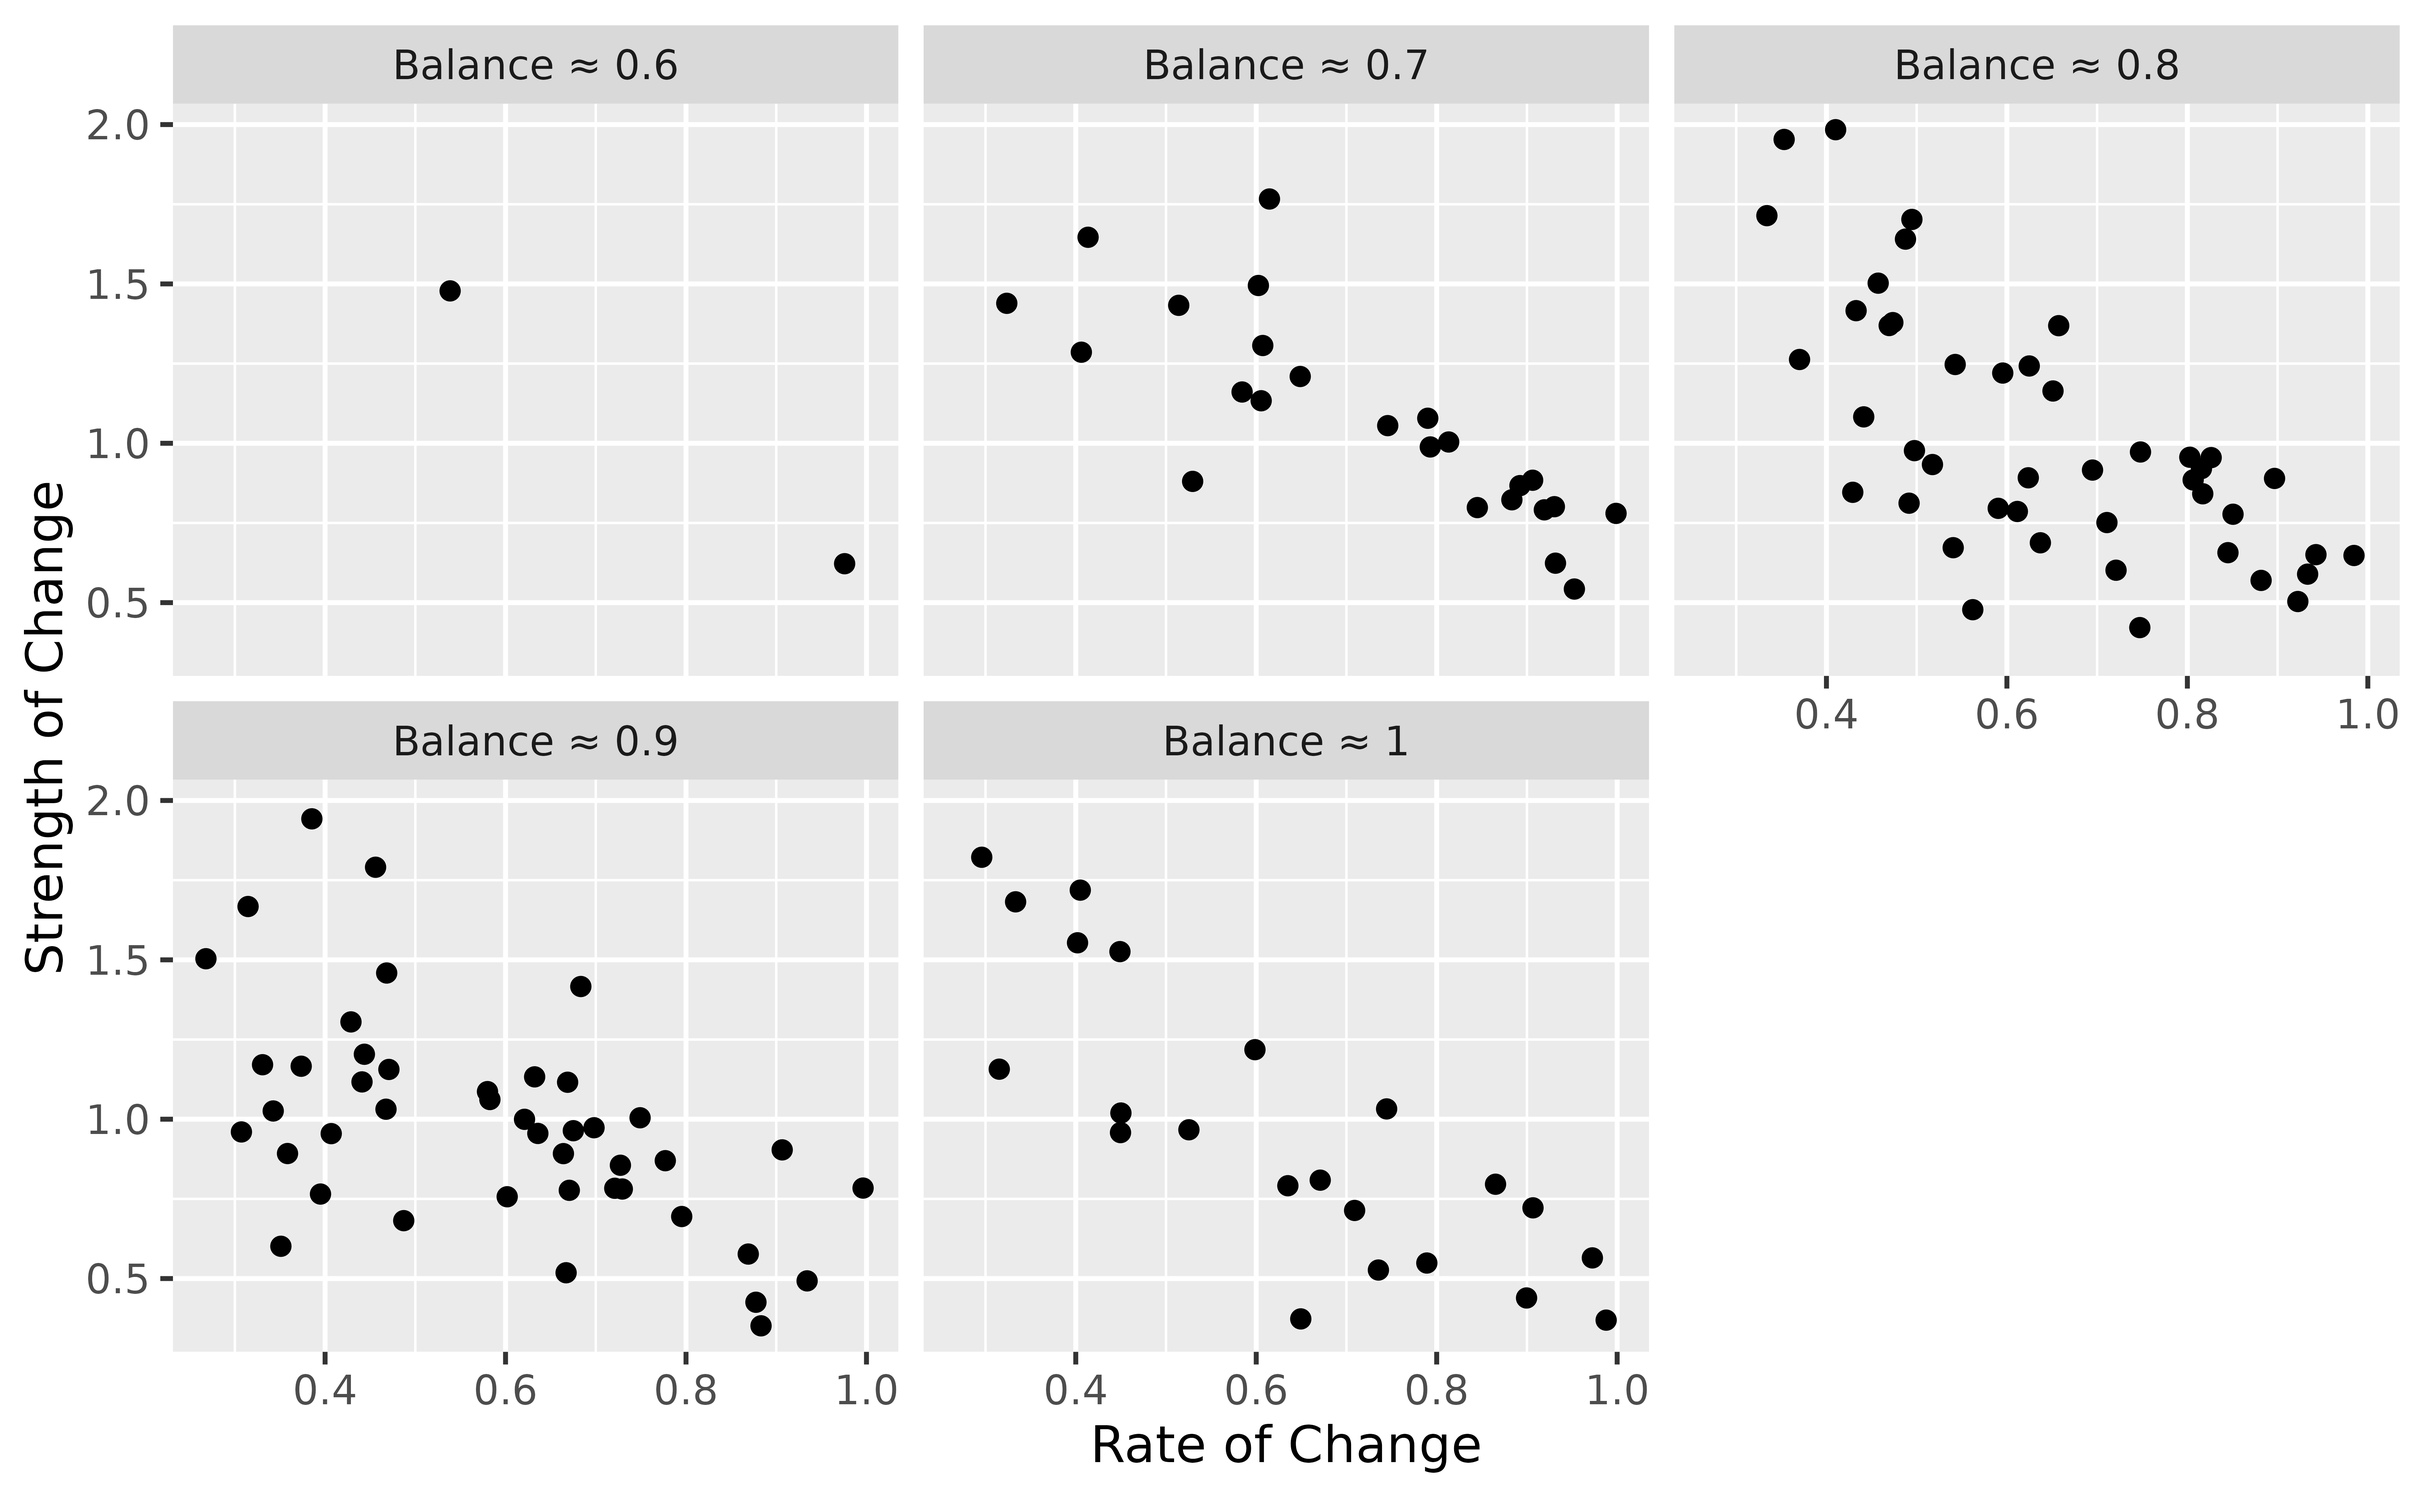
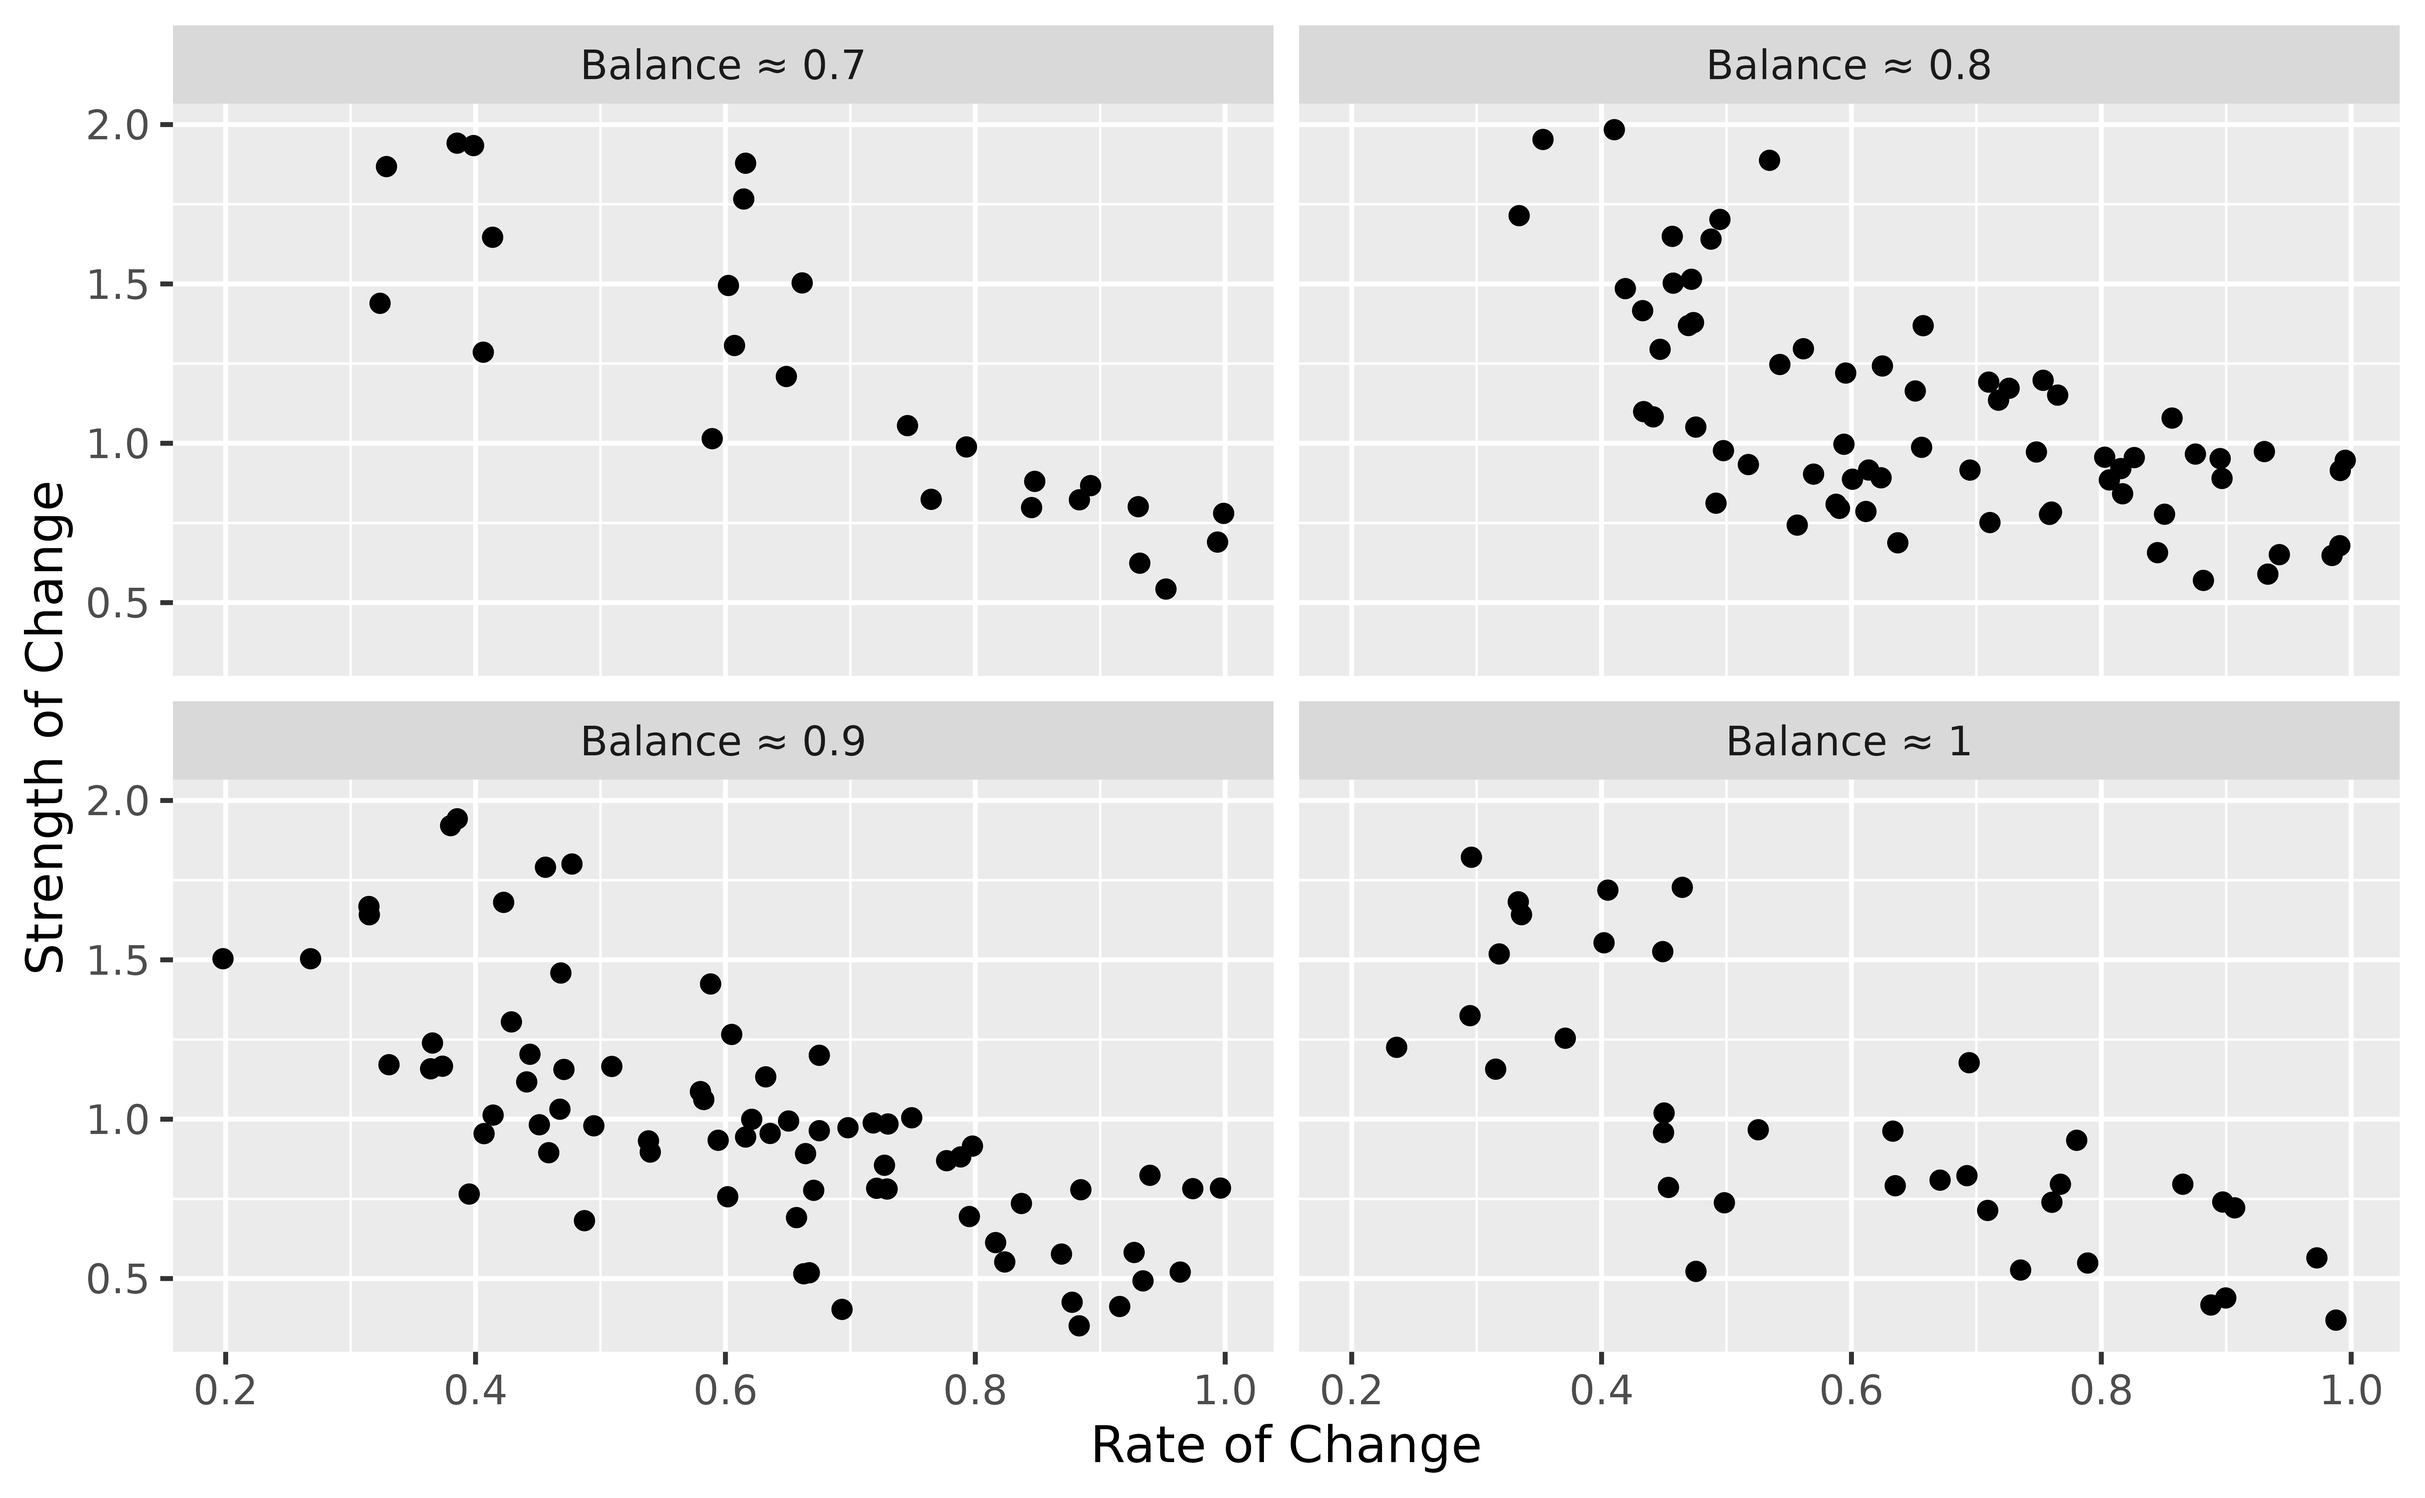
Deploying to gh-pages from @ tkeskinturk/gridsearch@3f447c8db7d7f3242bb4186ae36a1113af1a1292 🚀

diff --git a/articles/usage.html b/articles/usage.html
@@ -140,7 +140,7 @@ posed?</p>
 <h3 id="grid-search-algorithm">Grid Search Algorithm<a class="anchor" aria-label="anchor" href="#grid-search-algorithm"></a>
 </h3>
 <p>The grid-search algorithm tries to answer this question. It performs
-six main steps:</p>
+five main steps:</p>
 <ol style="list-style-type: decimal">
 <li>
 <p>Simulates data with several parameters of interest for our
@@ -151,14 +151,12 @@ y_{it} = Y_i + \delta \tau_i D_{it} + \epsilon_{it} \ \text{ with } \epsilon_{it
 </annotation></semantics></math></p>
 </li>
 <li><p>Calculates the distribution of response trajectories in both the
-observed and simulated data, by either tabulating response patterns
-across time or estimating slope coefficients;</p></li>
-<li><p>Compares the simulated trajectories to the observed trajectories.
-It does so by calculating a “distance” score to quantify the extent to
-which specific simulated values reproduce the observed values;</p></li>
-<li><p>Rejects the simulated data if the distance measure is above a
-certain pre-specified “caliper” value, and accepts it
-otherwise;</p></li>
+observed and simulated data by estimating slope coefficients at the
+individual level;</p></li>
+<li><p>Compares the simulated trajectories to the observed trajectories
+by calculating a Kolmogorov-Smirnov distance between the distribution of
+simulated slope coefficients and the distribution of observed slope
+coefficients;</p></li>
 <li><p>Replicates this analysis
 <math display="inline" xmlns="http://www.w3.org/1998/Math/MathML"><semantics><mi>N</mi><annotation encoding="application/x-tex">N</annotation></semantics></math>
 times by drawing samples from the specified priors;</p></li>
@@ -172,40 +170,29 @@ to the observed values.</p></li>
 <span>  yname <span class="op">=</span> <span class="st">'y'</span>, <span class="co">## observed binary outcome</span></span>
 <span>  tname <span class="op">=</span> <span class="st">'time'</span>, <span class="co">## time variable</span></span>
 <span>  pname <span class="op">=</span> <span class="st">'pid'</span>, <span class="co">## panel identifier</span></span>
-<span>  n_samples <span class="op">=</span> <span class="fl">1e4</span>, <span class="co">## the number of draws from the priors</span></span>
-<span>  caliper <span class="op">=</span> <span class="fl">.15</span> <span class="co">## the distance to accept or reject specific samples</span></span>
+<span>  n_samples <span class="op">=</span> <span class="fl">1e4</span> <span class="co">## the number of draws from the priors</span></span>
 <span><span class="op">)</span></span>
 <span><span class="co">#&gt; [1] "10%"</span></span>
-<span><span class="co">#&gt; [1] "AR: 1.1%"</span></span>
 <span><span class="co">#&gt; [1] "20%"</span></span>
-<span><span class="co">#&gt; [1] "AR: 1.4%"</span></span>
 <span><span class="co">#&gt; [1] "30%"</span></span>
-<span><span class="co">#&gt; [1] "AR: 1.5%"</span></span>
 <span><span class="co">#&gt; [1] "40%"</span></span>
-<span><span class="co">#&gt; [1] "AR: 1.5%"</span></span>
 <span><span class="co">#&gt; [1] "50%"</span></span>
-<span><span class="co">#&gt; [1] "AR: 1.4%"</span></span>
 <span><span class="co">#&gt; [1] "60%"</span></span>
-<span><span class="co">#&gt; [1] "AR: 1.5%"</span></span>
 <span><span class="co">#&gt; [1] "70%"</span></span>
-<span><span class="co">#&gt; [1] "AR: 1.4%"</span></span>
 <span><span class="co">#&gt; [1] "80%"</span></span>
-<span><span class="co">#&gt; [1] "AR: 1.4%"</span></span>
 <span><span class="co">#&gt; [1] "90%"</span></span>
-<span><span class="co">#&gt; [1] "AR: 1.3%"</span></span>
 <span><span class="co">#&gt; [1] "100%"</span></span>
-<span><span class="co">#&gt; [1] "AR: 1.4%"</span></span>
 <span></span>
 <span><span class="fu"><a href="https://rdrr.io/r/utils/head.html" class="external-link">head</a></span><span class="op">(</span><span class="va">grid</span><span class="op">)</span></span>
-<span><span class="co">#&gt;    ic_sample pc_sample bal_sample rel_sample</span></span>
-<span><span class="co">#&gt;        &lt;num&gt;     &lt;num&gt;      &lt;num&gt;      &lt;num&gt;</span></span>
-<span><span class="co">#&gt; 1: 1.0322507 0.7445152  0.9646666  0.8663515</span></span>
-<span><span class="co">#&gt; 2: 1.1328781 0.6322543  0.8840945  0.8712028</span></span>
-<span><span class="co">#&gt; 3: 0.9579910 0.4495958  0.9640791  0.8405229</span></span>
-<span><span class="co">#&gt; 4: 1.9532644 0.3531195  0.8201550  0.9198327</span></span>
-<span><span class="co">#&gt; 5: 0.7912792 0.6350539  0.9839783  0.9342152</span></span>
-<span><span class="co">#&gt; 6: 1.9839352 0.4101874  0.8015720  0.9760054</span></span></code></pre></div>
-<p>The <code>gridSearch</code> function gives us a data table with four
+<span><span class="co">#&gt;    ic_sample pc_sample bal_sample rel_sample     error</span></span>
+<span><span class="co">#&gt;        &lt;num&gt;     &lt;num&gt;      &lt;num&gt;      &lt;num&gt;     &lt;num&gt;</span></span>
+<span><span class="co">#&gt; 1: 0.1615003 0.8343330 0.60076089  0.1572084 0.2002322</span></span>
+<span><span class="co">#&gt; 2: 0.3604597 0.6863544 0.10009245  0.9301401 0.1770000</span></span>
+<span><span class="co">#&gt; 3: 0.2552555 0.3090493 0.03734205  0.1698264 0.1782102</span></span>
+<span><span class="co">#&gt; 4: 0.2721172 0.1380610 0.11318473  0.8798949 0.1500000</span></span>
+<span><span class="co">#&gt; 5: 0.3497646 0.7063219 0.27114909  0.6377779 0.1260000</span></span>
+<span><span class="co">#&gt; 6: 1.7581699 0.5516272 0.16823312  0.5071633 0.2640000</span></span></code></pre></div>
+<p>The <code>gridSearch</code> function gives us a data table with five
 columns:</p>
 <ul>
 <li>
@@ -221,6 +208,9 @@ of change in the sample,</li>
 <li>
 <code>rel_sample</code> provides a value of the reliability score
 retrieved from the search.</li>
+<li>
+<code>error</code> provides the KS distance between observed and
+simulated trajectories.</li>
 </ul>
 <p>Each row is one DGP that is “accepted” by our protocol with a given
 caliper value.</p>
@@ -235,7 +225,7 @@ caliper value.</p>
 <p><img src="usage_files/figure-html/unnamed-chunk-5-1.png" width="90%" style="display: block; margin: auto;"></p>
 <p>Alternatively, we can look at the conditional accepted samples:</p>
 <div class="sourceCode" id="cb5"><pre class="downlit sourceCode r">
-<code class="sourceCode R"><span><span class="fu"><a href="../reference/gridPlot.html">gridPlot</a></span><span class="op">(</span><span class="va">grid</span>, plot <span class="op">=</span> <span class="st">"conditional"</span><span class="op">)</span></span></code></pre></div>
+<code class="sourceCode R"><span><span class="fu"><a href="../reference/gridPlot.html">gridPlot</a></span><span class="op">(</span><span class="va">grid</span>, plot <span class="op">=</span> <span class="st">"conditional"</span>, percent <span class="op">=</span> <span class="fl">2</span><span class="op">)</span></span></code></pre></div>
 <p><img src="usage_files/figure-html/unnamed-chunk-6-1.png" width="90%" style="display: block; margin: auto;"></p>
 </div>
 </div>

diff --git a/reference/gridSearch.html b/reference/gridSearch.html
@@ -47,7 +47,6 @@
 <span>  <span class="va">tname</span>,</span>
 <span>  <span class="va">pname</span>,</span>
 <span>  n_samples <span class="op">=</span> <span class="fl">1000</span>,</span>
-<span>  caliper <span class="op">=</span> <span class="fl">0.1</span>,</span>
 <span>  ic_min <span class="op">=</span> <span class="fl">0</span>,</span>
 <span>  ic_max <span class="op">=</span> <span class="fl">2</span>,</span>
 <span>  pc_min <span class="op">=</span> <span class="fl">0</span>,</span>
@@ -58,7 +57,6 @@
 <span>  rel_max <span class="op">=</span> <span class="fl">1</span>,</span>
 <span>  fix <span class="op">=</span> <span class="st">"none"</span>,</span>
 <span>  fix_at <span class="op">=</span> <span class="fl">1</span>,</span>
-<span>  slopes <span class="op">=</span> <span class="cn">FALSE</span>,</span>
 <span>  verbose <span class="op">=</span> <span class="cn">TRUE</span></span>
 <span><span class="op">)</span></span></code></pre></div>
     </div>
@@ -85,10 +83,6 @@
 
 <dt id="arg-n-samples">n_samples<a class="anchor" aria-label="anchor" href="#arg-n-samples"></a></dt>
 <dd><p>The number of samples from priors.</p></dd>
-
-
-<dt id="arg-caliper">caliper<a class="anchor" aria-label="anchor" href="#arg-caliper"></a></dt>
-<dd><p>A caliper value.</p></dd>
 
 
 <dt id="arg-ic-min">ic_min<a class="anchor" aria-label="anchor" href="#arg-ic-min"></a></dt>
@@ -129,10 +123,6 @@
 
 <dt id="arg-fix-at">fix_at<a class="anchor" aria-label="anchor" href="#arg-fix-at"></a></dt>
 <dd><p>At what value to fix it on?</p></dd>
-
-
-<dt id="arg-slopes">slopes<a class="anchor" aria-label="anchor" href="#arg-slopes"></a></dt>
-<dd><p>Whether to use <code>slopes</code> rather than <code>contingency table</code>.</p></dd>
 
 
 <dt id="arg-verbose">verbose<a class="anchor" aria-label="anchor" href="#arg-verbose"></a></dt>

diff --git a/reference/gridPlot.html b/reference/gridPlot.html
@@ -41,7 +41,7 @@
 
     <div class="section level2">
     <h2 id="ref-usage">Usage<a class="anchor" aria-label="anchor" href="#ref-usage"></a></h2>
-    <div class="sourceCode"><pre class="sourceCode r"><code><span><span class="fu">gridPlot</span><span class="op">(</span><span class="va">data</span>, plot <span class="op">=</span> <span class="fu"><a href="https://rdrr.io/r/base/c.html" class="external-link">c</a></span><span class="op">(</span><span class="st">"posterior"</span>, <span class="st">"conditional"</span><span class="op">)</span><span class="op">)</span></span></code></pre></div>
+    <div class="sourceCode"><pre class="sourceCode r"><code><span><span class="fu">gridPlot</span><span class="op">(</span><span class="va">data</span>, plot <span class="op">=</span> <span class="fu"><a href="https://rdrr.io/r/base/c.html" class="external-link">c</a></span><span class="op">(</span><span class="st">"posterior"</span>, <span class="st">"conditional"</span><span class="op">)</span>, percent <span class="op">=</span> <span class="fl">5</span><span class="op">)</span></span></code></pre></div>
     </div>
 
     <div class="section level2">
@@ -54,6 +54,10 @@
 
 <dt id="arg-plot">plot<a class="anchor" aria-label="anchor" href="#arg-plot"></a></dt>
 <dd><p>If <code>posterior</code>, plots a density plot for each non-fixed parameter. If <code>conditional</code>, plots the accepted samples by different balance levels.</p></dd>
+
+
+<dt id="arg-percent">percent<a class="anchor" aria-label="anchor" href="#arg-percent"></a></dt>
+<dd><p>The percentage of samples to keep</p></dd>
 
 </dl></div>
     <div class="section level2">
